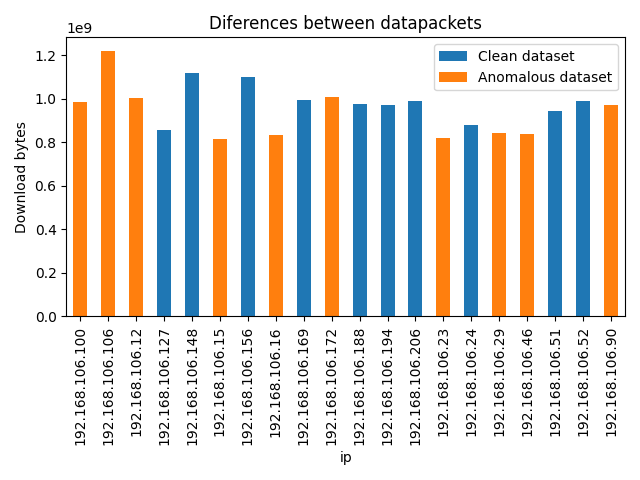
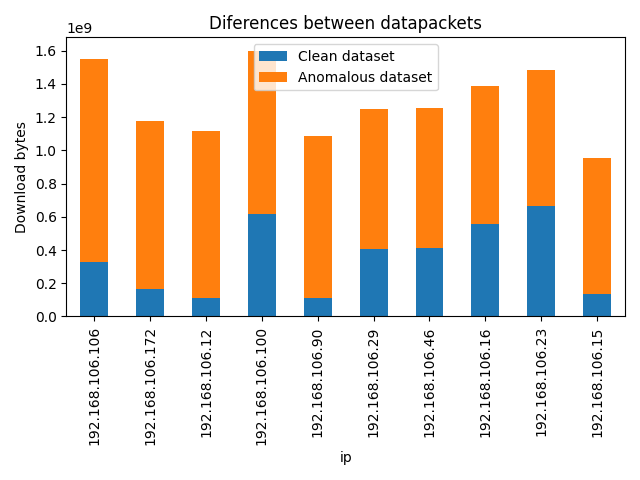
correcting calcs

diff --git a/Scripts/Plots.py b/Scripts/Plots.py
@@ -68,21 +68,16 @@ def timeFrame(data=data,test=test):
     # Convert timestamp differences from units of 1/100th of a second to seconds
     data['time_diff'] = data['time_diff'] / 100
     # Calculate the average time difference for each IP
-    average_time_btw_requests = data.groupby('src_ip')['time_diff'].mean()
-    # Display the results (you can choose to display the entire DataFrame or specific columns)
-    small_data = average_time_btw_requests.nsmallest(10)
-
+    average_time_btw_requests_data = data.groupby('src_ip')['time_diff'].mean()
 
     # Create a new column to store the time difference between requests for each IP
     test['time_diff'] = test.groupby('src_ip')['timestamp'].diff()
     # Convert timestamp differences from units of 1/100th of a second to seconds
     test['time_diff'] = test['time_diff'] / 100
     # Calculate the average time difference for each IP
-    average_time_btw_requests = test.groupby('src_ip')['time_diff'].mean()
-    # Display the results (you can choose to display the entire DataFrame or specific columns)
-    small_test = average_time_btw_requests.nsmallest(10)
+    average_time_btw_requests_test = test.groupby('src_ip')['time_diff'].mean()
     # Merge the two dataframes on country code
-    merged_data = pd.merge(small_data, small_test, on='src_ip', suffixes=('_data', '_test'),  how='outer')
+    merged_data = pd.merge(average_time_btw_requests_data, average_time_btw_requests_test, on='src_ip', suffixes=('_data', '_test'),  how='outer').nsmallest(10, "time_diff_test")
     merged_data = merged_data.fillna(0)
 
     plt.figure(figsize=(12, 6))
@@ -155,11 +150,11 @@ def compIpBytes(data=data,test=test):
     plt.tight_layout()
     plt.savefig('img/up_bytes_ip.png')
 
-    down_data = data.groupby('src_ip')['down_bytes'].sum().nlargest(10)
-    down_test = test.groupby('src_ip')['down_bytes'].sum().nlargest(10)
+    down_data = data.groupby('src_ip')['down_bytes'].sum()
+    down_test = test.groupby('src_ip')['down_bytes'].sum()
 
     # Merge the two dataframes on country code
-    merged_data = pd.merge(down_data, down_test, on='src_ip', suffixes=('_data', '_test'),  how='outer')
+    merged_data = pd.merge(down_data, down_test, on='src_ip', suffixes=('_data', '_test'),  how='outer').nlargest(10, "down_bytes_test")
     merged_data = merged_data.fillna(0)
 
     # Convert the columns back to integer type
@@ -176,4 +171,4 @@ def compIpBytes(data=data,test=test):
     plt.tight_layout()
     plt.savefig('img/down_bytes_ip.png')
 
-data_per_port(test)
+compIpBytes(data, test)
